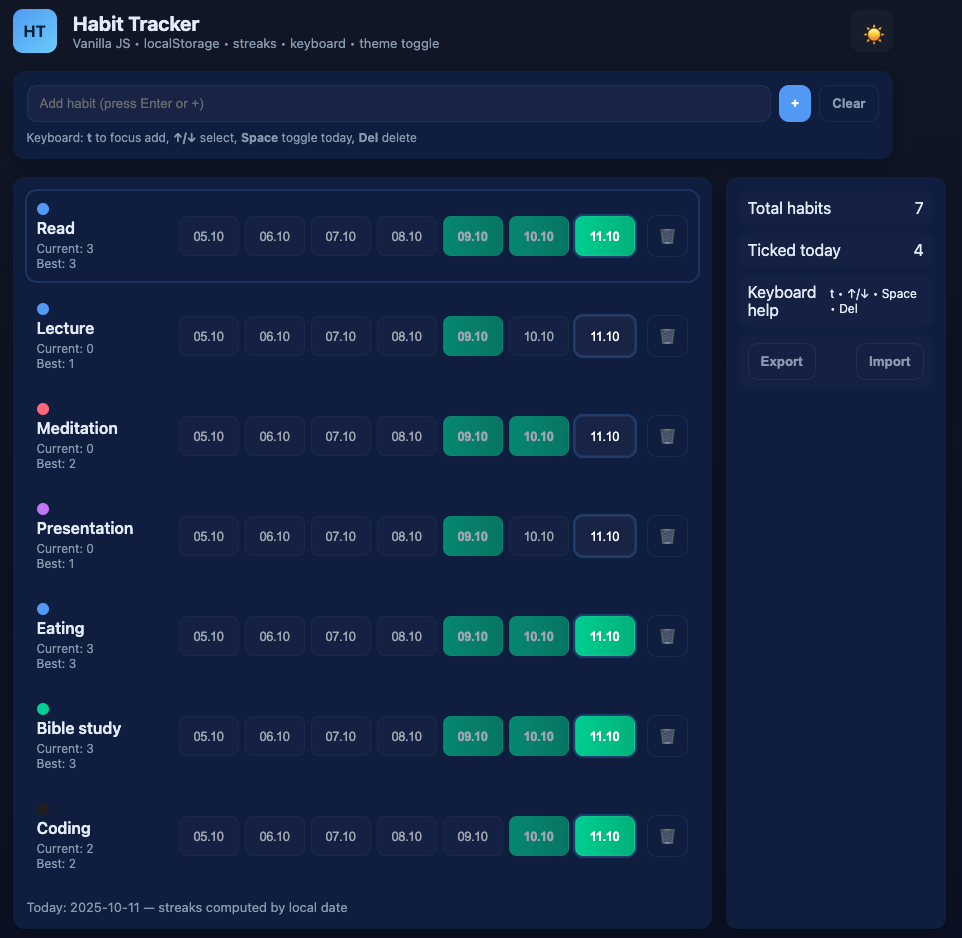
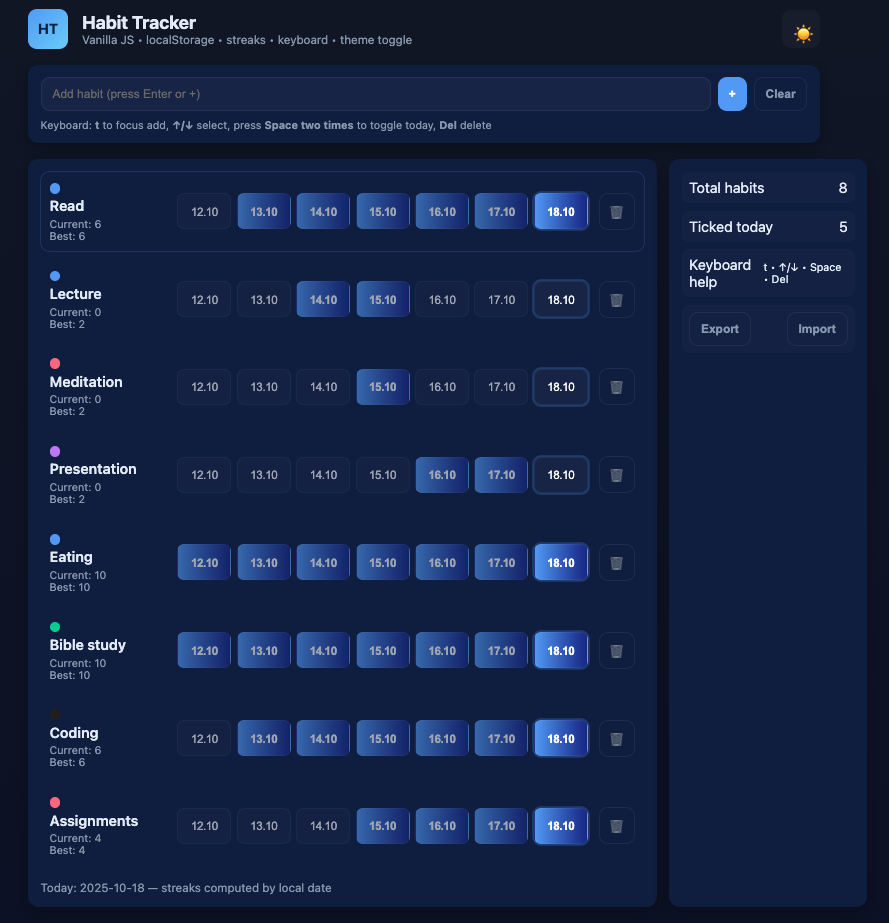
change ticks dark theme color

diff --git a/assets/tracker.css b/assets/tracker.css
@@ -247,7 +247,7 @@ h1 {
   transform: scale(1.05);
 }
 .day.ticked {
-  background: linear-gradient(90deg, var(--success), #10b981);
+  background: linear-gradient(90deg, var(--accent), #142e92);
   color: #fff;
   font-weight: 600;
 }
